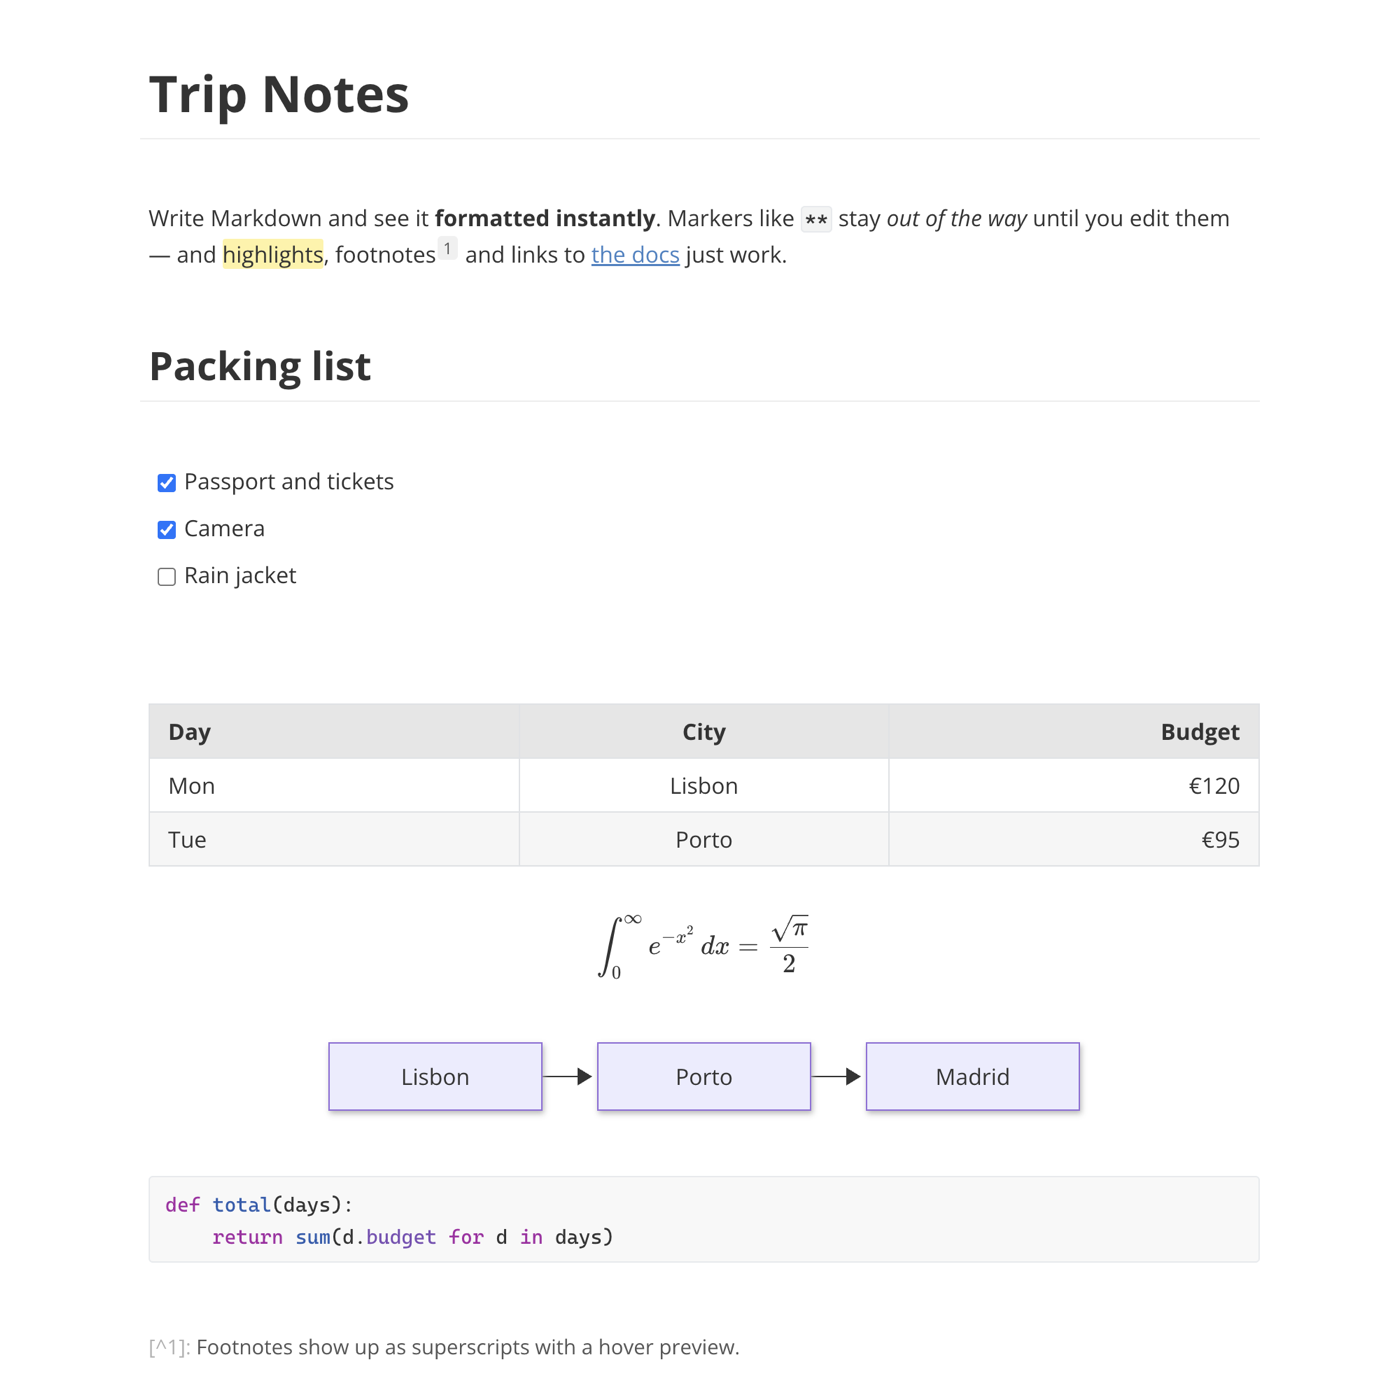
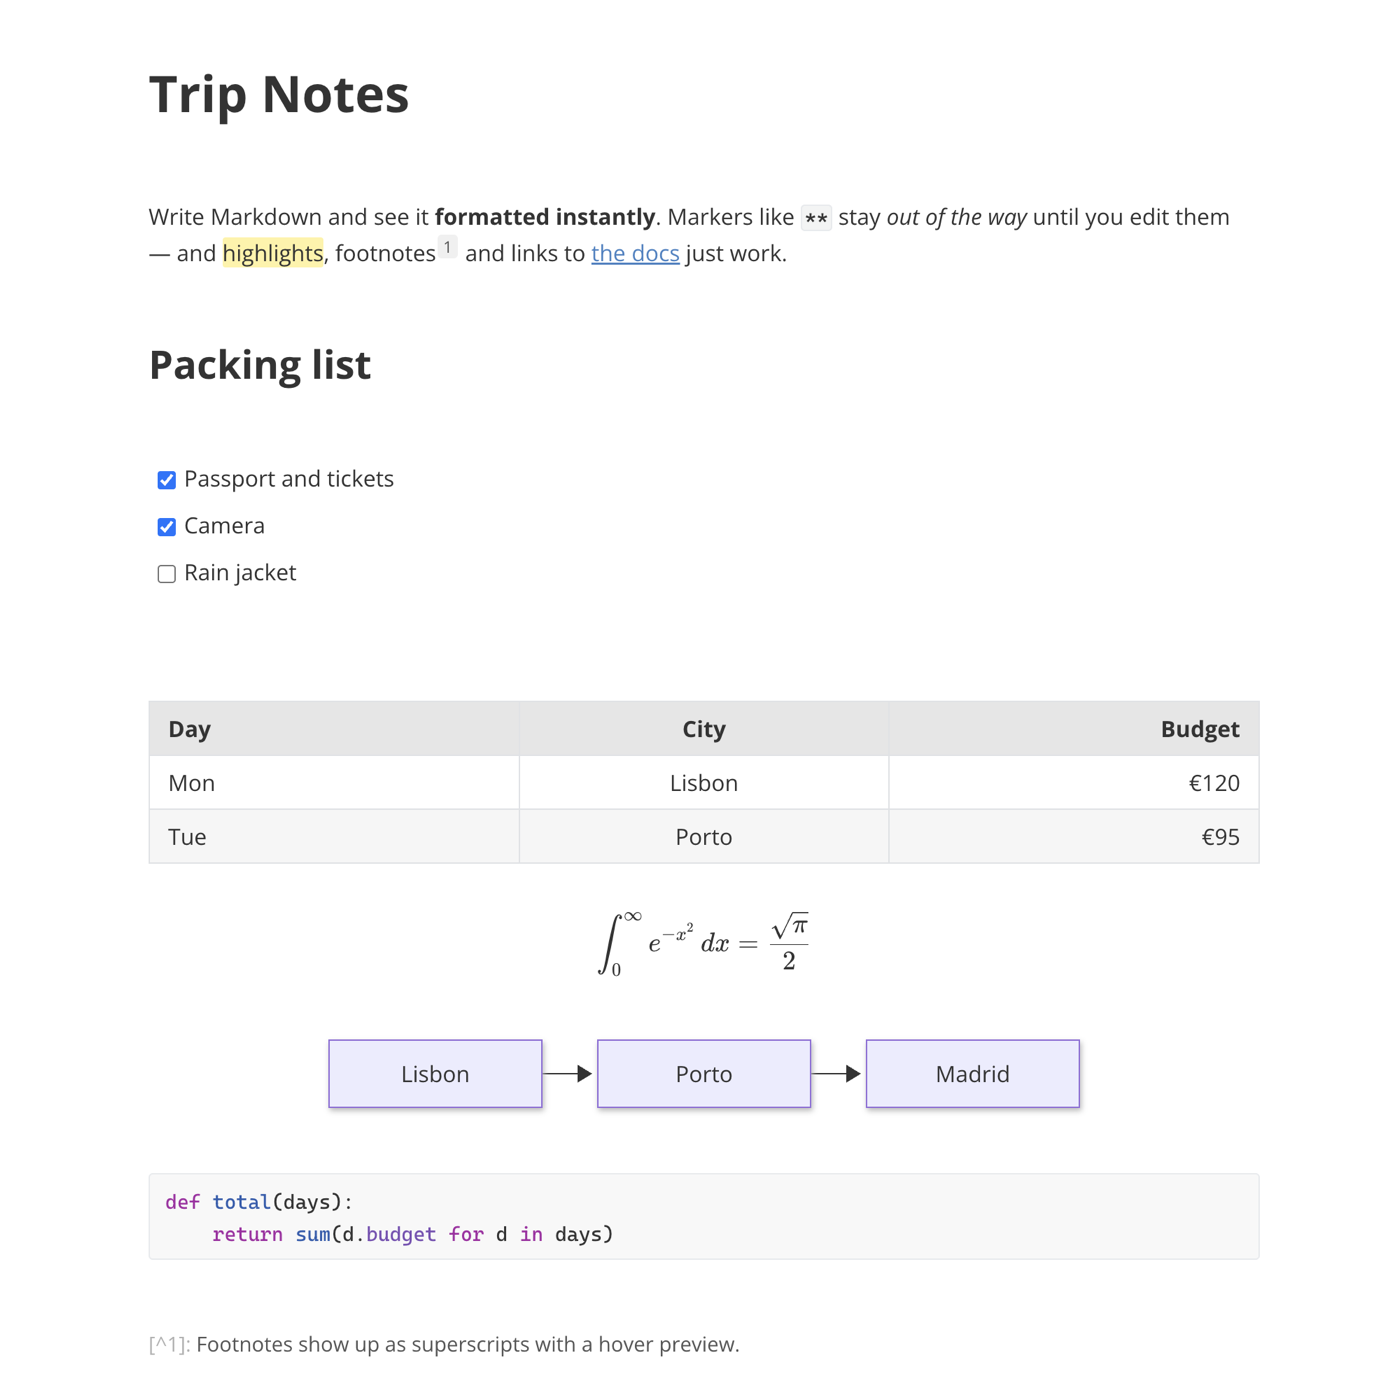
Remove the underline below h1 and h2 headings

diff --git a/src/renderer/style.css b/src/renderer/style.css
@@ -31,7 +31,6 @@
   --quote-fg: #777;
   --code-bg: #f8f8f8;
   --code-line: #e7eaed;
-  --h-line: #eee;
   --tok-meta: #a31515;
   --tok-bracket: #1b3fa6;
   --tex-cmd: #1a7f37;
@@ -53,7 +52,6 @@
     --quote-fg: #9aa0a8;
     --code-bg: #262626;
     --code-line: #3a3a3a;
-    --h-line: #3a3a3a;
     --tok-meta: #f08d7e;
     --tok-bracket: #7fb2f5;
     --tex-cmd: #7ee787;
@@ -124,7 +122,6 @@ div.cm-editor .cm-scroller {
 .cm-h1 {
   font-size: 2.25em;
   line-height: 1.2;
-  border-bottom: 1px solid var(--h-line);
 }
 .cm-editor .cm-line.cm-h1,
 .cm-editor .cm-line.cm-h2 {
@@ -133,7 +130,6 @@ div.cm-editor .cm-scroller {
 .cm-h2 {
   font-size: 1.75em;
   line-height: 1.225;
-  border-bottom: 1px solid var(--h-line);
 }
 .cm-h3 {
   font-size: 1.5em;

diff --git a/docs/PRODUCT_SPEC.md b/docs/PRODUCT_SPEC.md
@@ -33,7 +33,7 @@ Windows, macOS 데스크톱. Linux는 요구사항이 아니며 지원 여부는
 - 문서마다 창 하나, 본문 중앙 정렬(최대 폭 860px), 넉넉한 여백.
 - 툴바 없음 또는 최소화. 서식은 Markdown 입력과 단축키가 기본.
 - 폴더 트리 사이드바는 두지 않는다 (2026-10-28 결정: 미리보기 화면을 확인한 뒤 불필요하다고 판단). 문서 이동은 창 단위로 한다.
-- 본문 타이포그래피: Open Sans(라틴)+시스템 한글 글꼴, 16px, 줄 간격 1.6, 글자색 #333, 자간 지정 없음, 최대 폭 860px(좌우 30px 포함), 제목 h1 2.25em·h2 1.75em·h3 1.5em·h4 1.25em·h5/h6 1em(h1·h2 아래 구분선).
+- 본문 타이포그래피: Open Sans(라틴)+시스템 한글 글꼴, 16px, 줄 간격 1.6, 글자색 #333, 자간 지정 없음, 최대 폭 860px(좌우 30px 포함), 제목 h1 2.25em·h2 1.75em·h3 1.5em·h4 1.25em·h5/h6 1em(제목 아래 구분선 없음).
 - 크롬 요소는 조용하게: 낮은 대비의 구분선, 시스템 폰트 기반 UI, 본문은 가독성 높은 서체.
 - 모든 Markdown 요소는 같은 규칙을 따른다: **문법이 완성되는 순간 서식을 적용**하고(`**굵게**`는 닫는 `**`가 입력될 때, 제목은 `# ` 공백이 입력될 때), **기호는 커서가 그 요소의 안쪽에 있는 동안만 보인다**(줄 단위가 아니라 요소 단위, 맨 앞/맨 뒤 위치는 제외). 닫는 기호를 입력하는 순간 서식이 적용되고 기호는 바로 숨는다.
 - 편집 중인 요소만 원문 문법 노출은 핵심 경험이며, 엔진이 허용하는 범위에서 구현하며 범위는 Phase 1 검증 후 정합니다.
